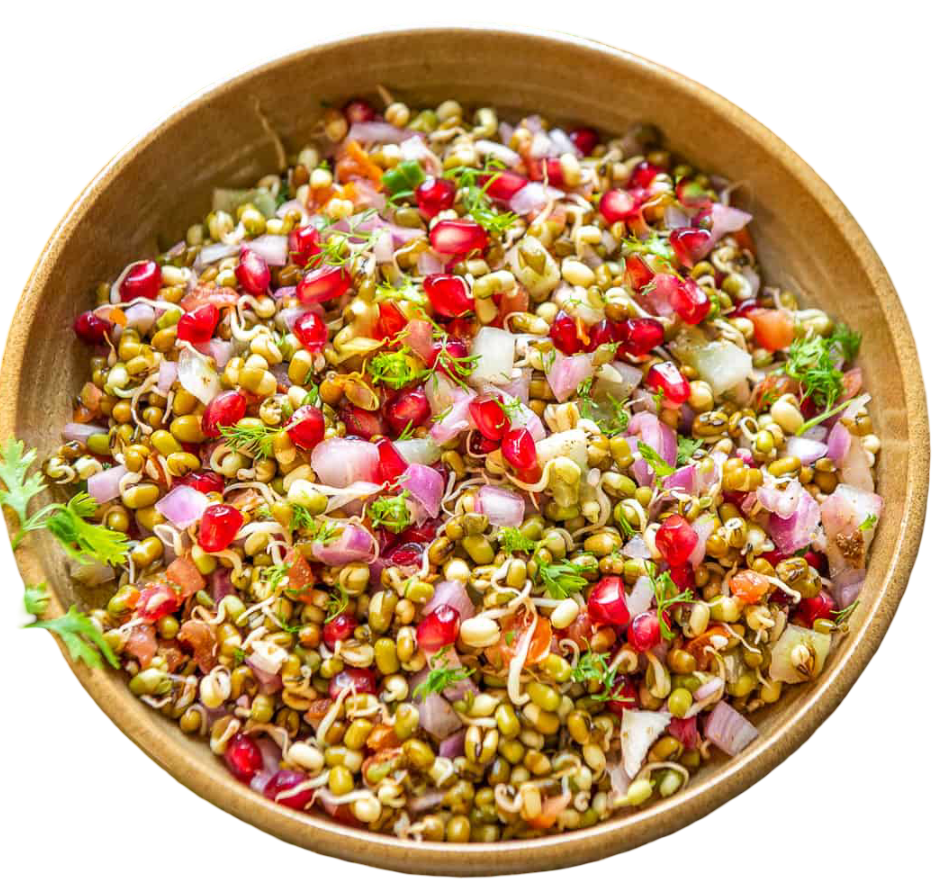
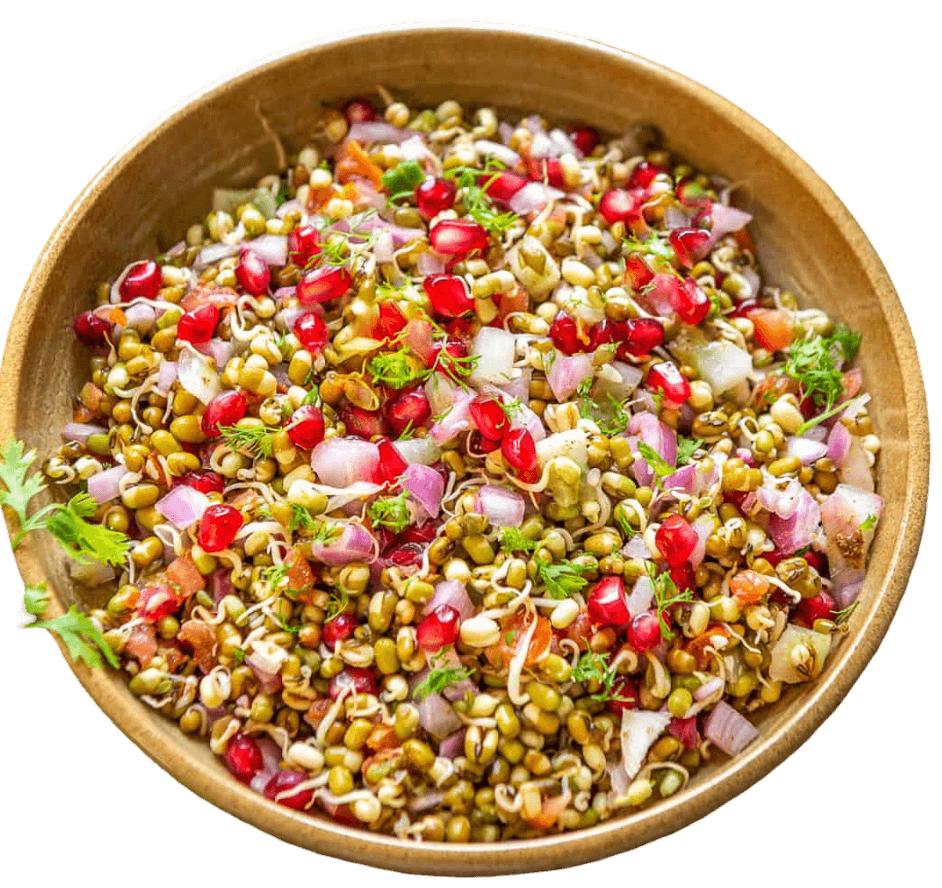
Your commit message

Changed region(s): [[0.4002, 0.3345, 0.431, 0.3649]]

diff --git a/src/pages/DietMenu.tsx b/src/pages/DietMenu.tsx
@@ -8,7 +8,7 @@ import "react-multi-carousel/lib/styles.css";
 import { useNavigate } from "react-router-dom";
 import Footer from "../components/Footer";
 
-import heroDietImg from "../assets/diet/hero-diet.jpg";
+import heroDietImg from "../assets/diet/hero-diet-min.jpg";
 import All from "../assets/img/WhatsApp Image 2025-10-19 at 17.37.50_d401016b.png";
 
 export default function DietMenu() {
